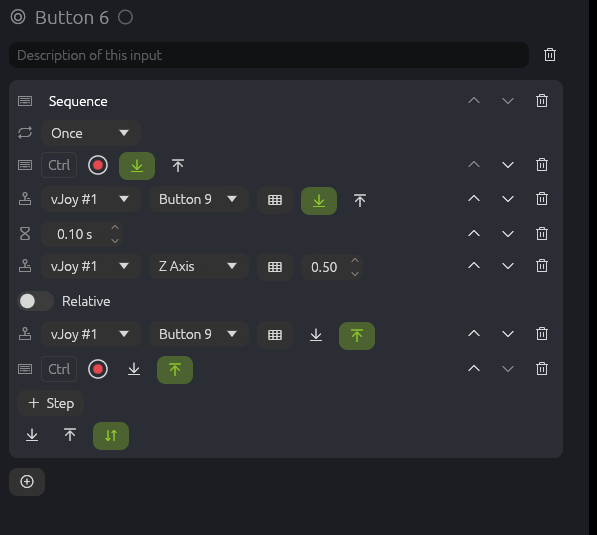
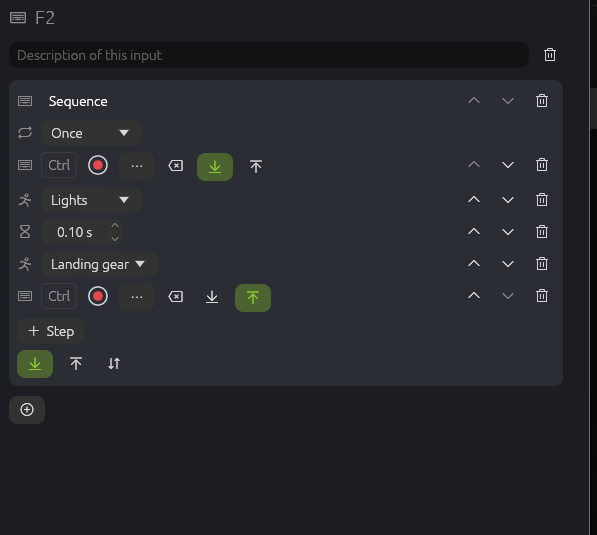
docs(joystick-gobloon): macro picture with run-action steps
Refs #131

diff --git a/site/learn.html b/site/learn.html
@@ -394,9 +394,9 @@
           </article>
           <article class="learn-action" id="macro">
             <h3><i class="ph ph-list-numbers" aria-hidden="true"></i>Macro</h3>
-            <p>Plays a sequence of steps: keys, mouse buttons and motion, buttons, axes and hats of a virtual stick, buttons, sticks, triggers and the d-pad of a virtual gamepad (Linux only for now), and pauses. Each step picks its device and output like <a href="#map-to-vjoy">Map to virtual stick</a> does, with the same grid of outputs and the same marks for outputs other inputs use. It can run once, a number of times, while the button is held, or until the next press.</p>
+            <p>Plays a sequence of steps: keys, mouse buttons and motion, buttons, axes and hats of a virtual stick, buttons, sticks, triggers and the d-pad of a virtual gamepad (Linux only for now), other actions of the profile, and pauses. Each step picks its device and output like <a href="#map-to-vjoy">Map to virtual stick</a> does, with the same grid of outputs and the same marks for outputs other inputs use. It can run once, a number of times, while the button is held, or until the next press.</p>
             <p>A <span class="term">Run action</span> step runs another action of the profile, as a short press of its input would: give that action a name in its title first, then pick it in the step. Actions the macro sits in are left out of the list, so a macro never runs itself.</p>
-            <figure class="shot"><img src="img/actions/macro.png" loading="lazy" alt="Macro: Ctrl down, virtual stick button 9 down, a pause, Z axis to 0.50, then button 9 and Ctrl up"></figure>
+            <figure class="shot"><img src="img/actions/macro.png" loading="lazy" alt="Macro: Ctrl down, run the action named Lights, a pause, run the action named Landing gear, then Ctrl up"></figure>
           </article>
           <article class="learn-action" id="hat-buttons">
             <h3><i class="ph ph-compass" aria-hidden="true"></i>Hat buttons</h3>
